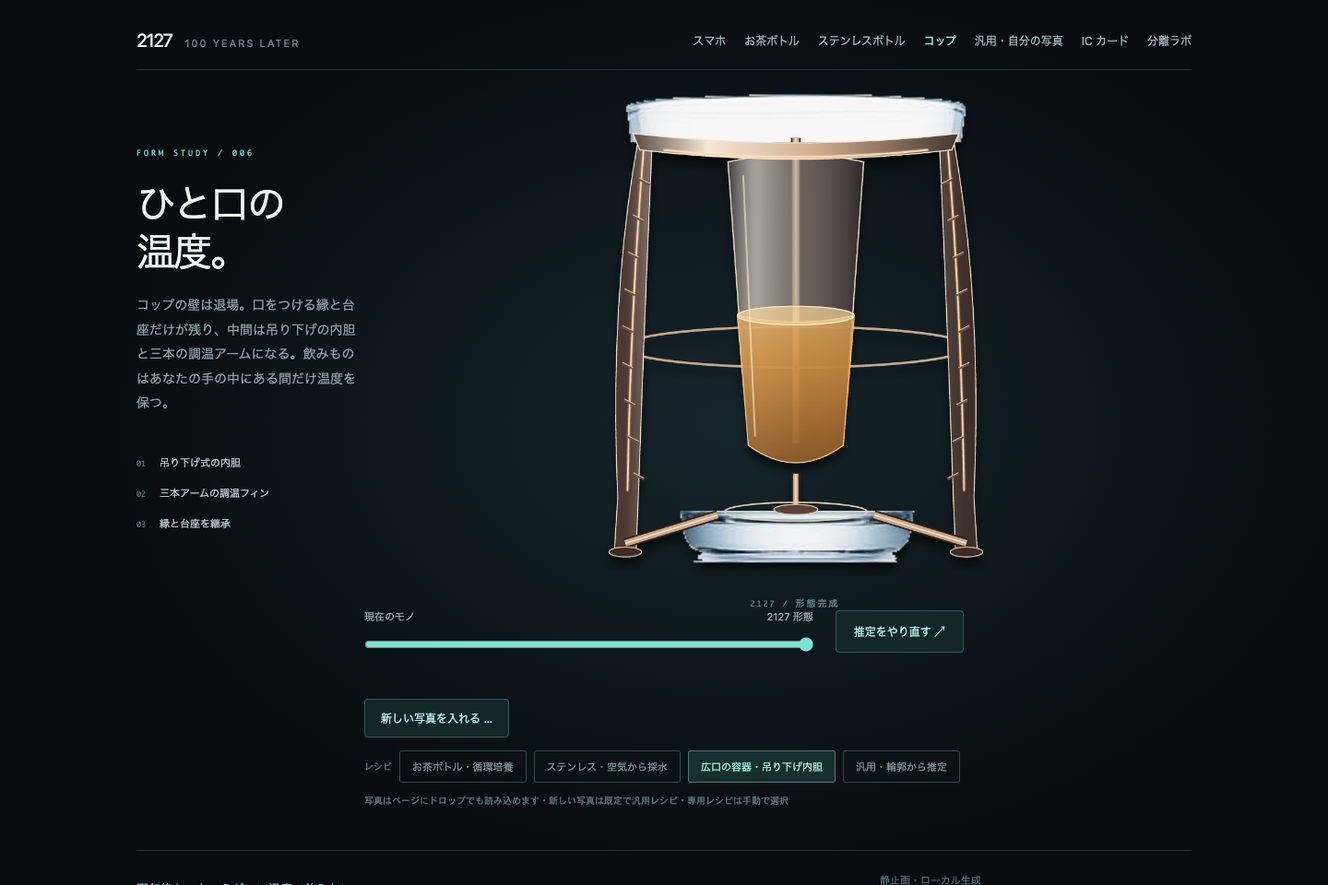
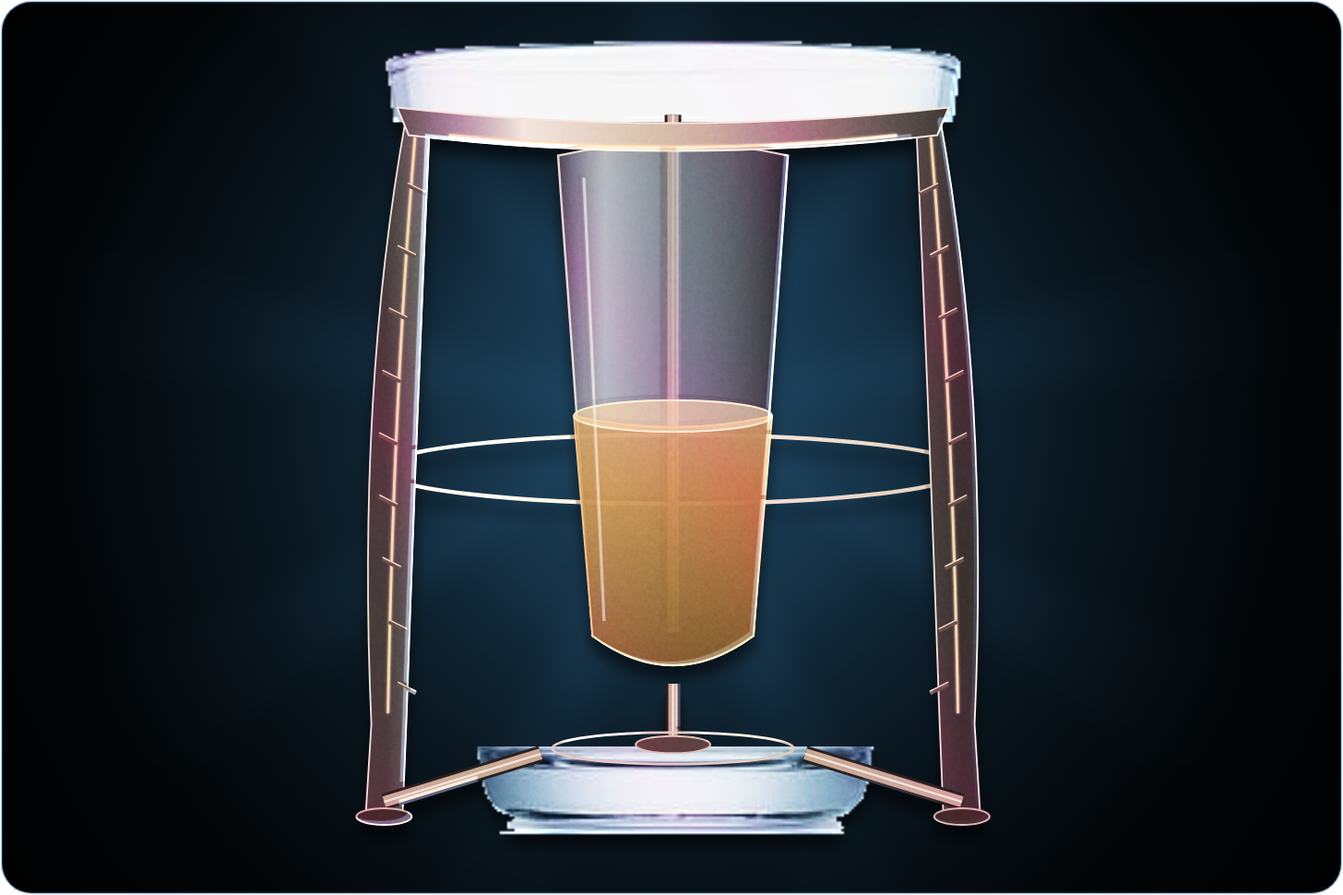
refactor(art): share the card stage between studies and phone.html
`phone.html` is the first thing demo.html shows, and it was the only page
without the backdrop, rim light, foil and grain — it did not read as part of
the same series. The stage layer only ever depended on one 1456×970 `future`
canvas, so it moves to a shared `stage.js` (stageBuild / stageBackdrop /
stageOverlay / stageEdge) instead of being copied into a second page.

studies.html output is byte-identical before and after; phone.html now rides
the same lamp. Its "the screen is really gone" self-check compares against the
backdrop instead of alpha 0, the way studies.html already did.

Also regenerates previews/*-future.png, which predated the 09-09 art pass.

Claude-Session: https://claude.ai/code/session_018SVE9dFeSjraHi3QfJLnTu

diff --git a/studies.html b/studies.html
@@ -23,7 +23,7 @@
 <span class="hint" id="loadhint">写真はページにドロップでも読み込めます・新しい写真は既定で汎用レシピ・専用レシピは手動で選択</span></div>
 <div class="controls" id="elevwrap" hidden><div class="compare"><div class="labels"><label for="elevation">カメラ：正面</label><span>斜め 45°</span></div><input id="elevation" aria-label="カメラ仰角" type="range" min="0" max="100" value="0"></div><span style="font:10px ui-monospace,monospace;color:#5f757e;white-space:nowrap">プロトタイプ・手続き幾何の再投影</span></div>
 <footer><p class="kept" id="kept"></p><p>静止画・ローカル生成<br>1 枚の写真によるキャリブレーション試験。回転追跡は含みません。</p></footer><pre id="checks" hidden></pre>
-</main><script src="segmentation.js"></script><script src="calibration.js"></script><script>
+</main><script src="segmentation.js"></script><script src="calibration.js"></script><script src="stage.js"></script><script>
 'use strict';
 const SRC={bottle:'assets/bottle-source.webp','bottle-b':'assets/bottle-b-source.jpeg',cup:'assets/segmentation/water.jpg',banana:'assets/segmentation/banana.jpeg',suica:'assets/suica-source.jpg'};
 const Q=new URLSearchParams(location.search),kind=!Q.has('lab')&&SRC[Q.get('object')]?Q.get('object'):'bottle',family=kind==='suica'?'suica':'bottle';
@@ -233,67 +233,8 @@ function renderFuture(elev=E0){
  if(family!=='bottle')cuff();else if(recipe==='generic')generic();else if(recipe==='cup')cup();else if(recipe==='flask')flask(elev);else bottle();
  // Staging is object-agnostic on purpose: every recipe is lit by the same lamp, so the pages read
  // as one series instead of five separate illustrations.
- stageAccent=place?place.accent:accentOf(source);paintStage();paintRim();paintHolo();paintGrain();
+ stageBuild(future,place?place.accent:accentOf(source));
 }
-// --- Card staging --------------------------------------------------------------------------
-// The evolved form used to be a cutout floating on flat black. Hand-painted card art is not
-// mostly detail, it is mostly *staging*: a lit backdrop, a rim light picking the silhouette off
-// it, and a foil sheen. All three are procedural and cost one paint per build, so they cost the
-// live demo nothing — which is why the polish budget goes here and not into more geometry.
-const stage=document.createElement('canvas'),rim=document.createElement('canvas'),holo=document.createElement('canvas'),grain=document.createElement('canvas');
-for(const cv of [stage,rim,holo,grain]){cv.width=1456;cv.height=970;}
-// Perfectly smooth gradients are the last thing that still says "vector". Real surfaces carry a
-// little noise, and a few percent of it is enough for the eye to stop reading the shading as a
-// fill. xorshift rather than Math.random: build() re-runs, and the same photo must land on the
-// same future every time.
-const GRAIN=(()=>{const cv=document.createElement('canvas');cv.width=cv.height=96;
- const g=cv.getContext('2d'),im=g.createImageData(96,96);let x=0x2127;
- for(let i=0;i<im.data.length;i+=4){x^=x<<13;x^=x>>>17;x^=x<<5;x>>>=0;
-  const v=114+x%29;im.data[i]=im.data[i+1]=im.data[i+2]=v;im.data[i+3]=255;}
- g.putImageData(im,0,0);return cv;})();
-let stageAccent={h:190,s:.55};
-const layer=cv=>{const c=cv.getContext('2d');c.setTransform(2,0,0,2,0,0);c.globalCompositeOperation='source-over';c.globalAlpha=1;c.clearRect(0,0,728,485);return c;};
-// Silhouette of the evolved form, flooded with one colour. Both the rim and the sheen are just
-// this shape masked differently, so neither can drift off the artwork it decorates.
-function silhouette(cv,paint){const c=layer(cv);c.drawImage(future,0,0,728,485);
- c.globalCompositeOperation='source-in';paint(c);c.globalCompositeOperation='source-over';return c;}
-function paintStage(){const c=layer(stage),H=stageAccent.h.toFixed(1),S=(Math.min(.62,stageAccent.s)*100).toFixed(0);
- const hsl=(l,a='')=>`hsl(${H} ${S}% ${l}%${a})`;
- c.fillStyle=hsl(5);c.fillRect(0,0,728,485);
- const key=c.createRadialGradient(364,222,8,364,222,340);
- key.addColorStop(0,hsl(27));key.addColorStop(.5,hsl(13));key.addColorStop(1,hsl(4));
- c.fillStyle=key;c.fillRect(0,0,728,485);
- // Nine rays, blurred hard and held at 7% alpha. Unblurred they read as a rising-sun poster —
- // drawn spokes competing with the subject — instead of light hanging in the air behind it.
- c.save();c.globalCompositeOperation='lighter';c.filter='blur(16px)';c.translate(364,222);
- for(let i=0;i<9;i++){c.rotate(Math.PI*2/9);
-  const r=c.createLinearGradient(0,0,0,-380);
-  r.addColorStop(0,hsl(46,' / 0'));r.addColorStop(.40,hsl(46,' / .07'));r.addColorStop(1,hsl(46,' / 0'));
-  c.fillStyle=r;c.beginPath();c.moveTo(0,0);c.lineTo(-42,-400);c.lineTo(42,-400);c.fill();}
- c.restore();
- const vig=c.createRadialGradient(364,222,120,364,240,430);
- vig.addColorStop(0,'#0000');vig.addColorStop(.62,'#00000066');vig.addColorStop(1,'#000000e6');
- c.fillStyle=vig;c.fillRect(0,0,728,485);
-}
-// The artwork sits in a card, not in a rectangle of page background: rounded plate, thin edge.
-const CARD=()=>{const p=new Path2D();p.roundRect(1,1,726,483,16);return p;};
-// A crescent of key light along the top-left edge: the silhouette minus itself nudged 2.6px, then
-// faded out toward the bottom-right. Without that second fade the crescent closes into a ring and
-// the subject reads as a sticker with a white outline rather than a lit object.
-function paintRim(){const c=silhouette(rim,c=>{c.fillStyle=`hsl(${stageAccent.h.toFixed(1)} 92% 80%)`;c.fillRect(0,0,728,485);});
- c.globalCompositeOperation='destination-out';c.drawImage(future,-2.6,-2.6,728,485);
- // Same axis as pearl, so the rim agrees with the highlight already painted on the frame.
- const g=c.createLinearGradient(150,90,590,410);
- g.addColorStop(0,'#0000');g.addColorStop(.5,'#0007');g.addColorStop(1,'#000');
- c.fillStyle=g;c.fillRect(0,0,728,485);}
-// Foil: bands alternating between the object's hue and its complement, so the sheen shifts colour
-// across the form the way a holographic card does under a tilt.
-// The hue swing follows how saturated the object is. On stainless a full complementary band reads
-// as chromatic aberration, not foil, so a near-neutral object gets a value-only shimmer instead.
-function paintHolo(){silhouette(holo,c=>{const h=stageAccent.h,off=170*stageAccent.s,g=c.createLinearGradient(110,440,650,30);
- for(let i=0;i<=10;i++)g.addColorStop(i/10,i%2?`hsl(${(h+off)%360} 80% 62% / .5)`:`hsl(${h} 85% 60% / .22)`);
- c.fillStyle=g;c.fillRect(0,0,728,485);});}
-function paintGrain(){silhouette(grain,c=>{c.fillStyle=c.createPattern(GRAIN,'repeat');c.fillRect(0,0,728,485);});}
 // Photo B is a vacuum steel flask: it has already solved the disposable bottle's problem, so it
 // gets its own evolution rather than the tea recipe. Its defining property is holding a state
 // against the environment; pushed a century on, it stops being filled and starts harvesting.
@@ -430,20 +371,6 @@ function cup(){
 // photographed, the shell between them goes, and what replaces it is a shrunken core inside an
 // exo-frame that traces and overshoots the original outline. This is the deliberate house form for
 // "not one of the authored classes" — it is not a claim that the object was recognised.
-// The accent light is measured from the object's own pixels, so a banana's future glows amber and
-// a steel flask's stays cold, instead of one house colour being painted over everything. A nearly
-// grey object keeps the neutral cyan rather than being given a hue that its own photo never had.
-function accentOf(canvas){
- const w=canvas.width,h=canvas.height,d=canvas.getContext('2d').getImageData(0,0,w,h).data;
- let r=0,g=0,b=0,n=0;
- for(let i=0;i<w*h;i+=7){const j=i*4;if(d[j+3]<200)continue;r+=d[j];g+=d[j+1];b+=d[j+2];n++;}
- if(!n)return{h:190,s:.55};
- r/=n*255;g/=n*255;b/=n*255;
- const mx=Math.max(r,g,b),mn=Math.min(r,g,b),l=(mx+mn)/2;let hue=190,sat=0;
- if(mx!==mn){const dd=mx-mn;sat=l>.5?dd/(2-mx-mn):dd/(mx+mn);
-  hue=60*(mx===r?(g-b)/dd+(g<b?6:0):mx===g?(b-r)/dd+2:(r-g)/dd+4);}
- return sat<.08?{h:190,s:.55}:{h:hue,s:Math.min(.8,.35+sat)};
-}
 function generic(){
  const c=future.getContext('2d');c.scale(2,2);
  const{k,dx,dy}=place,long=(place.base-place.top)>=place.hw*2?'y':'x';
@@ -583,19 +510,14 @@ function build(prepared=null){
 }
 let raf=0;
 function draw(mix=1){ctx.setTransform(2,0,0,2,0,0);ctx.clearRect(0,0,728,485);
- const card=CARD();ctx.save();ctx.clip(card);
- ctx.drawImage(stage,0,0,728,485);
+ ctx.save();ctx.clip(CARD());
+ stageBackdrop(ctx);
  ctx.save();ctx.shadowColor='#0009';ctx.shadowBlur=15;ctx.shadowOffsetY=14;
  ctx.globalAlpha=1-mix;ctx.drawImage(source,0,0,728,485);ctx.globalAlpha=mix;ctx.drawImage(future,0,0,728,485);ctx.restore();
  // Rim and foil belong to the evolved form, so they arrive with it as the slider is dragged.
- ctx.save();ctx.globalCompositeOperation='lighter';
- ctx.globalAlpha=mix*.6;ctx.drawImage(rim,0,0,728,485);
- // Overlay, not lighter: foil shifts hue across the form without flattening its darks, which is
- // what a straight additive pass did — it washed the whole subject to one pale value.
- ctx.globalCompositeOperation='overlay';ctx.globalAlpha=mix*(.25+.6*stageAccent.s);ctx.drawImage(holo,0,0,728,485);
- ctx.globalAlpha=mix*.45;ctx.drawImage(grain,0,0,728,485);ctx.restore();
+ stageOverlay(ctx,mix);
  ctx.restore();
- shape(ctx,card,null,`hsl(${stageAccent.h.toFixed(1)} 45% 46% / .35)`,1.2);}
+ stageEdge(ctx);}
 function evolve(){cancelAnimationFrame(raf);slider.value=100;phase.textContent='形態を再構成中';const start=performance.now();function tick(now){const p=Math.min(1,(now-start)/1800);draw(p*p*(3-2*p));if(p<1)raf=requestAnimationFrame(tick);else{raf=0;phase.textContent='2127 / 形態完成';}}if(matchMedia('(prefers-reduced-motion: reduce)').matches){draw();phase.textContent='2127 / 形態完成';}else raf=requestAnimationFrame(tick);}
 if(kind==='bottle-b'){const wrap=document.getElementById('elevwrap'),el=document.getElementById('elevation');
  wrap.hidden=false;

diff --git a/stage.js b/stage.js
@@ -1,0 +1,88 @@
+'use strict';
+// 舞台層：五個 studies 入口同 phone.html 共用嘅卡牌式打光。
+// 只依賴一張 1456×970 嘅 `future` 畫布 —— 唔識得任何 renderer，所以加新 renderer 唔使理呢層。
+// 用法：stageBuild(future, accentOf(source)) 之後，喺 draw() 入面
+//   stageBackdrop(ctx) → 畫主體 → stageOverlay(ctx, mix) → stageEdge(ctx)。
+// The accent light is measured from the object's own pixels, so a banana's future glows amber and
+// a steel flask's stays cold, instead of one house colour being painted over everything. A nearly
+// grey object keeps the neutral cyan rather than being given a hue that its own photo never had.
+function accentOf(canvas){
+ const w=canvas.width,h=canvas.height,d=canvas.getContext('2d').getImageData(0,0,w,h).data;
+ let r=0,g=0,b=0,n=0;
+ for(let i=0;i<w*h;i+=7){const j=i*4;if(d[j+3]<200)continue;r+=d[j];g+=d[j+1];b+=d[j+2];n++;}
+ if(!n)return{h:190,s:.55};
+ r/=n*255;g/=n*255;b/=n*255;
+ const mx=Math.max(r,g,b),mn=Math.min(r,g,b),l=(mx+mn)/2;let hue=190,sat=0;
+ if(mx!==mn){const dd=mx-mn;sat=l>.5?dd/(2-mx-mn):dd/(mx+mn);
+  hue=60*(mx===r?(g-b)/dd+(g<b?6:0):mx===g?(b-r)/dd+2:(r-g)/dd+4);}
+ return sat<.08?{h:190,s:.55}:{h:hue,s:Math.min(.8,.35+sat)};
+}
+// --- Card staging --------------------------------------------------------------------------
+// The evolved form used to be a cutout floating on flat black. Hand-painted card art is not
+// mostly detail, it is mostly *staging*: a lit backdrop, a rim light picking the silhouette off
+// it, and a foil sheen. All three are procedural and cost one paint per build, so they cost the
+// live demo nothing — which is why the polish budget goes here and not into more geometry.
+const stage=document.createElement('canvas'),rim=document.createElement('canvas'),holo=document.createElement('canvas'),grain=document.createElement('canvas');
+for(const cv of [stage,rim,holo,grain]){cv.width=1456;cv.height=970;}
+// Perfectly smooth gradients are the last thing that still says "vector". Real surfaces carry a
+// little noise, and a few percent of it is enough for the eye to stop reading the shading as a
+// fill. xorshift rather than Math.random: build() re-runs, and the same photo must land on the
+// same future every time.
+const GRAIN=(()=>{const cv=document.createElement('canvas');cv.width=cv.height=96;
+ const g=cv.getContext('2d'),im=g.createImageData(96,96);let x=0x2127;
+ for(let i=0;i<im.data.length;i+=4){x^=x<<13;x^=x>>>17;x^=x<<5;x>>>=0;
+  const v=114+x%29;im.data[i]=im.data[i+1]=im.data[i+2]=v;im.data[i+3]=255;}
+ g.putImageData(im,0,0);return cv;})();
+let stageAccent={h:190,s:.55},stageFuture=null;
+const layer=cv=>{const c=cv.getContext('2d');c.setTransform(2,0,0,2,0,0);c.globalCompositeOperation='source-over';c.globalAlpha=1;c.clearRect(0,0,728,485);return c;};
+// Silhouette of the evolved form, flooded with one colour. Both the rim and the sheen are just
+// this shape masked differently, so neither can drift off the artwork it decorates.
+function silhouette(cv,paint){const c=layer(cv);c.drawImage(stageFuture,0,0,728,485);
+ c.globalCompositeOperation='source-in';paint(c);c.globalCompositeOperation='source-over';return c;}
+function paintStage(){const c=layer(stage),H=stageAccent.h.toFixed(1),S=(Math.min(.62,stageAccent.s)*100).toFixed(0);
+ const hsl=(l,a='')=>`hsl(${H} ${S}% ${l}%${a})`;
+ c.fillStyle=hsl(5);c.fillRect(0,0,728,485);
+ const key=c.createRadialGradient(364,222,8,364,222,340);
+ key.addColorStop(0,hsl(27));key.addColorStop(.5,hsl(13));key.addColorStop(1,hsl(4));
+ c.fillStyle=key;c.fillRect(0,0,728,485);
+ // Nine rays, blurred hard and held at 7% alpha. Unblurred they read as a rising-sun poster —
+ // drawn spokes competing with the subject — instead of light hanging in the air behind it.
+ c.save();c.globalCompositeOperation='lighter';c.filter='blur(16px)';c.translate(364,222);
+ for(let i=0;i<9;i++){c.rotate(Math.PI*2/9);
+  const r=c.createLinearGradient(0,0,0,-380);
+  r.addColorStop(0,hsl(46,' / 0'));r.addColorStop(.40,hsl(46,' / .07'));r.addColorStop(1,hsl(46,' / 0'));
+  c.fillStyle=r;c.beginPath();c.moveTo(0,0);c.lineTo(-42,-400);c.lineTo(42,-400);c.fill();}
+ c.restore();
+ const vig=c.createRadialGradient(364,222,120,364,240,430);
+ vig.addColorStop(0,'#0000');vig.addColorStop(.62,'#00000066');vig.addColorStop(1,'#000000e6');
+ c.fillStyle=vig;c.fillRect(0,0,728,485);
+}
+// The artwork sits in a card, not in a rectangle of page background: rounded plate, thin edge.
+const CARD=()=>{const p=new Path2D();p.roundRect(1,1,726,483,16);return p;};
+// A crescent of key light along the top-left edge: the silhouette minus itself nudged 2.6px, then
+// faded out toward the bottom-right. Without that second fade the crescent closes into a ring and
+// the subject reads as a sticker with a white outline rather than a lit object.
+function paintRim(){const c=silhouette(rim,c=>{c.fillStyle=`hsl(${stageAccent.h.toFixed(1)} 92% 80%)`;c.fillRect(0,0,728,485);});
+ c.globalCompositeOperation='destination-out';c.drawImage(stageFuture,-2.6,-2.6,728,485);
+ // Same axis as pearl, so the rim agrees with the highlight already painted on the frame.
+ const g=c.createLinearGradient(150,90,590,410);
+ g.addColorStop(0,'#0000');g.addColorStop(.5,'#0007');g.addColorStop(1,'#000');
+ c.fillStyle=g;c.fillRect(0,0,728,485);}
+// Foil: bands alternating between the object's hue and its complement, so the sheen shifts colour
+// across the form the way a holographic card does under a tilt.
+// The hue swing follows how saturated the object is. On stainless a full complementary band reads
+// as chromatic aberration, not foil, so a near-neutral object gets a value-only shimmer instead.
+function paintHolo(){silhouette(holo,c=>{const h=stageAccent.h,off=170*stageAccent.s,g=c.createLinearGradient(110,440,650,30);
+ for(let i=0;i<=10;i++)g.addColorStop(i/10,i%2?`hsl(${(h+off)%360} 80% 62% / .5)`:`hsl(${h} 85% 60% / .22)`);
+ c.fillStyle=g;c.fillRect(0,0,728,485);});}
+function paintGrain(){silhouette(grain,c=>{c.fillStyle=c.createPattern(GRAIN,'repeat');c.fillRect(0,0,728,485);});}
+// 對外三步：背景、疊層、卡邊。mix 同主體嘅淡入一致，所以輪廓光同燙金係跟住未來形態一齊到。
+function stageBuild(target,accent){stageFuture=target;stageAccent=accent;paintStage();paintRim();paintHolo();paintGrain();}
+function stageBackdrop(c){c.drawImage(stage,0,0,728,485);}
+function stageOverlay(c,mix){c.save();c.globalCompositeOperation='lighter';
+ c.globalAlpha=mix*.6;c.drawImage(rim,0,0,728,485);
+ // Overlay, not lighter: foil shifts hue across the form without flattening its darks, which is
+ // what a straight additive pass did — it washed the whole subject to one pale value.
+ c.globalCompositeOperation='overlay';c.globalAlpha=mix*(.25+.6*stageAccent.s);c.drawImage(holo,0,0,728,485);
+ c.globalAlpha=mix*.45;c.drawImage(grain,0,0,728,485);c.restore();}
+function stageEdge(c){c.strokeStyle=`hsl(${stageAccent.h.toFixed(1)} 45% 46% / .35)`;c.lineWidth=1.2;c.stroke(CARD());}

diff --git a/phone.html b/phone.html
@@ -14,7 +14,7 @@
 <figure><canvas id="view" width="1456" height="970" role="img" aria-label="画面と上半分の筐体が消え、三枚のセラミック製センシングウィングをつなぐ光導スパインへ。下端は元のグリップとボタンを残す"></canvas><figcaption id="phase" aria-live="polite">形態推定の準備中</figcaption></figure></section>
 <div class="controls"><div class="compare"><div class="labels"><label for="evolution">現在のスマホ</label><span>2127 形態</span></div><input id="evolution" aria-label="現在のスマホと 2127 形態の比較" type="range" min="0" max="100" value="100" disabled></div><button id="replay" disabled>推定をやり直す ↗</button></div>
 <footer><p class="kept">百年後も、世界は手のなかにある。</p><p>静止画・ローカル生成<br>1 枚の写真によるキャリブレーション試験。回転追跡は含みません。</p></footer><pre id="checks" hidden></pre>
-</main><script src="segmentation.js"></script><script src="calibration.js"></script><script>
+</main><script src="segmentation.js"></script><script src="calibration.js"></script><script src="stage.js"></script><script>
 'use strict';
 const canvas=document.getElementById('view'), ctx=canvas.getContext('2d');
 const slider=document.getElementById('evolution'), replay=document.getElementById('replay'), phase=document.getElementById('phase');
@@ -76,16 +76,25 @@ function makeFuture(){
  trace(c,[[.48,-.045,33],[.536,-.045,33]],'#e6acd6',1.4,4);
  // Original physical home button remains legible in the retained grip.
  c.save();c.strokeStyle='#599c9a';c.lineWidth=.8;c.beginPath();c.ellipse(184,355,32,8.7,.24,0,Math.PI*2);c.stroke();c.restore();
+ // Same lamp as the five studies entries: backdrop, rim light, foil and grain are all derived
+ // from this silhouette, so this page finally reads as part of the same series.
+ stageBuild(future,accentOf(original));
 }
 let raf=0, started=0;
 function draw(amount=1,progress=1){
  ctx.setTransform(2,0,0,2,0,0);ctx.clearRect(0,0,728,485);
  // Crossfade the whole source away, including its alpha: removed structure must reveal the background.
  const mix=amount*(progress*progress*(3-2*progress));
+ ctx.save();ctx.clip(CARD());
+ stageBackdrop(ctx);
+ // The subject is drawn at .84, so the rim and foil have to ride the same transform or they would
+ // sit beside the form they belong to.
  ctx.save();ctx.translate(364,242);ctx.scale(.84,.84);ctx.translate(-364,-242);
- ctx.shadowColor='#0009';ctx.shadowBlur=18;ctx.shadowOffsetY=15;
+ ctx.save();ctx.shadowColor='#0009';ctx.shadowBlur=18;ctx.shadowOffsetY=15;
  ctx.globalAlpha=1-mix;ctx.drawImage(original,0,0,728,485);
  ctx.globalAlpha=mix;ctx.drawImage(future,0,0,728,485);ctx.restore();
+ stageOverlay(ctx,mix);ctx.restore();
+ ctx.restore();stageEdge(ctx);
 }
 function evolve(){cancelAnimationFrame(raf);slider.value=100;started=performance.now();phase.textContent='筐体を展開中';
  const tick=now=>{const p=Math.min(1,(now-started)/1800);draw(1,p);if(p<1)raf=requestAnimationFrame(tick);else{raf=0;phase.textContent='2127 / 形態完成';}};
@@ -109,7 +118,11 @@ function selfTest(){
  const [hx,hy]=at(.8,.7),hole=(Math.round(hy*2)*1456+Math.round(hx*2))*4+3;
  check('former screen has true transparent negative space',a[hole]>200&&b[hole]===0);
  draw(1);const visibleHole=(Math.round((242+(hy-242)*.84)*2)*1456+Math.round((364+(hx-364)*.84)*2))*4+3;
- check('final composite does not retain removed screen',ctx.getImageData(0,0,1456,970).data[visibleHole]<15);
+ // There is a lit backdrop behind the object now, so "the screen is gone" cannot be alpha 0 any
+ // more: the removed area must show untouched backdrop instead (same test as studies.html).
+ const comp=ctx.getImageData(0,0,1456,970).data,st=stage.getContext('2d').getImageData(0,0,1456,970).data;
+ check('final composite shows backdrop where the screen was',
+  Math.abs(comp[visibleHole-3]-st[visibleHole-3])+Math.abs(comp[visibleHole-2]-st[visibleHole-2])+Math.abs(comp[visibleHole-1]-st[visibleHole-1])<30);
  const out=document.getElementById('checks');out.hidden=false;out.textContent=rows.join('\n');return rows;
 }
 function loadDefault(){photo=new Image();const current=photo;

diff --git a/memory-bank/20-status.md b/memory-bank/20-status.md
@@ -41,13 +41,13 @@
 - 材質工具：部件範圍漸層（凸／凹明暗軌）、疊描邊管、接觸陰影、管座、螺絲、顆粒。
   茶瓶 pod 同保溫樽鰭片已重畫；水杯本身寫法就啱，只補全域顆粒；
   手機同交通卡幾何未動。
+- 舞台層已抽做共用檔 `stage.js`（`stageBuild` / `stageBackdrop` / `stageOverlay` / `stageEdge`），
+  `studies.html` 同 `phone.html` 一齊用；`studies.html` 嘅輸出前後 byte 相同，純重構。
 - `renderFuture()` 實測 5ms，即時生成負擔不變。
 - 手法、取捨同陷阱見 `30-decisions.md` 同 `40-gotchas.md`；管線圖見 `10-architecture.md`。
-- ⚠ **`phone.html` 冇跟上。** 佢有自己一個 `draw()`，唔經 `studies.html` 嘅管線，
-  所以冇舞台、冇輪廓光、冇燙金、冇顆粒 —— 同五個 studies 入口而家**唔同一家人**。
-  使用者當時話手機畫面 OK 所以冇動；要統一就要將管線抽出共用檔，或者喺 `phone.html` 複製一份。
-- ⚠ `previews/*-future.png` 係 2026-09-08 嘅手動快照，**早過呢次美術改動**，
-  已經唔代表現時畫面。要更新就開對應頁面撳「今の画面を保存」。
+- `phone.html`（2026-09-10）已經接上同一個舞台層。佢仍然有自己一個 `draw()`（主體整體縮 .84），
+  但四層打光同卡面同五個 studies 入口一致 —— 而家係同一家人。幾何本身未動。
+- `previews/*-future.png` 已於 2026-09-10 用現行畫面重新產生（1456×970，同「今の画面を保存」同一路徑）。
   `previews/demo-*.png` 同 `previews/input-tests/` 由 `tests/browser.cjs` 重跑產生。
 
 ### 校準
@@ -59,6 +59,7 @@
 ### 驗證
 
 - 139 項頁內自我檢查：legacy 67、Lab 12、茶瓶 11、保溫樽 13、闊身容器 10、通用 10、交通卡 7、手機 9。
+  手機嗰 9 項有一項改咗寫法：合成底下有舞台，所以「螢幕真係冇咗」由 alpha 0 改成同背景比對（同 studies 一致）。
 - `tests/browser.cjs` 覆蓋真實 UI 操作、輸出檔案、快速換相、失敗恢復、配方切換、校準、baseline restoration、三種卡片 metadata／theme、750×1050 PNG、63×88mm print、deterministic reopen、reduced-motion 同 390px 版面。
 - 最新證據及限制見 [`../previews/input-tests/README.md`](../previews/input-tests/README.md)，重跑方法見 [`../tests/README.md`](../tests/README.md)。
 

diff --git a/AGENTS.md b/AGENTS.md
@@ -37,8 +37,9 @@ repo 文檔同程式碼註解維持中文；`index.html?test=1` 嗰 67 條檢查
 
 ## 畫面美術
 
-`studies.html` 有一層卡牌式舞台（背光／輪廓光／燙金／顆粒），由 `future` 剪影自動生成 ——
-**加新 renderer 唔使理呢層**。物件本身用材質工具畫：部件範圍漸層、疊描邊管、接觸陰影、
+卡牌式舞台（背光／輪廓光／燙金／顆粒）喺共用檔 `stage.js`，由 `future` 剪影自動生成 ——
+**加新 renderer 唔使理呢層**。`studies.html` 五個入口同 `phone.html` 共用同一盞燈。
+自己寫 `draw()` 嘅頁要記住：主體同 `stageOverlay()` 必須喺同一個 transform 之內（見 gotchas）。物件本身用材質工具畫：部件範圍漸層、疊描邊管、接觸陰影、
 管座、螺絲。管線圖見 `memory-bank/10-architecture.md`。
 
 **動手改美術之前一定要睇 `memory-bank/40-gotchas.md` 嘅漸層 clamp 條目。**
@@ -82,8 +83,9 @@ repo 文檔同程式碼註解維持中文；`index.html?test=1` 嗰 67 條檢查
 | 檔 | 係乜 |
 |---|---|
 | `studies.html` | 現行主頁：各配方 renderer、畫面管線、材質工具、Lab（~920 行） |
-| `phone.html` | 手機四角校準頁。**有自己嘅 `draw()`，未跟 studies 管線** |
+| `phone.html` | 手機四角校準頁。**有自己嘅 `draw()`**，但美術已共用 `stage.js` |
 | `demo.html` | 組員展示入口 |
+| `stage.js` | 共用舞台層：背光／輪廓光／燙金／顆粒／卡面。studies + phone 一齊用 |
 | `segmentation.js` | 共用去背、遮罩處理、幾何錨點 |
 | `calibration.js` / `calibration.css` | 共用四角校準、透視映射 |
 | `index.html` | legacy 旋轉／攝影機原型，單檔，~1540 行 |

diff --git a/memory-bank/40-gotchas.md b/memory-bank/40-gotchas.md
@@ -188,3 +188,17 @@ shape(c, podB, pearl);   // 全部喺 ramp 之後 → clamp 成最後一個 stop
 
 **同類已知案例**：`cup()` 冇中招，因為佢一開始就係 `grad(c, cx-hw, 0, cx+hw, 0, …)`，
 跟住部件半寬開。呢個先係啱嘅寫法。
+
+### 舞台層同主體唔喺同一個 transform
+
+**症狀**：輪廓光／燙金／顆粒睇落離開咗物件，或者大細唔啱。
+
+**成因**：`rim`／`holo`／`grain` 係由 `future` 剪影生成，坐標同 `future` 一樣。
+邊個 transform 之下畫佢哋，佢哋就跟邊個。`phone.html` 嘅 `draw()` 將主體縮 .84，
+如果 `stageOverlay(ctx, mix)` 喺 `restore()` 之後先畫，就會用返原尺寸，即刻錯位。
+
+**修法**：主體同 `stageOverlay()` 一定要喺同一個 `save()/restore()` 之內。
+`stageBackdrop()` 相反 —— 佢係背景，要喺 transform 之外、卡面 clip 之內。
+
+**一眼認出**：光暈同物件同形但唔同大細／偏位，而唔係亂咁一忽。
+

diff --git a/previews/input-tests/README.md b/previews/input-tests/README.md
@@ -33,3 +33,11 @@ Each rejection clears the displayed canvases and disables evolution/replay. Same
 Evidence: `results.json`, each `*-mask.png` (transparent pixels outside retained mask), and each `*-page.png` (actual rejected UI). No manual ground-truth masks, so no numerical segmentation accuracy claim.
 
 Next: separate generic segmentation from bottle-specific row filling and shadow trimming before supporting concave or open objects; do not merely relax the aspect gate. Each new object also needs an appropriate evolution recipe.
+
+## 2026-09-10 · 舞台層抽做 `stage.js`
+
+`studies.html` 同 `phone.html` 改用共用舞台層之後全套重跑：`tests/browser.cjs` 全綠、
+`errors: []`，`calibrated-phone.png` 同 `bridge-*.png` 已重新產生。
+`studies.html?object=bottle-b` 嘅 `#view` 輸出同重構之前 byte 相同。
+`phone.html?test=1` 9/9（其中一項改成同背景比對，因為合成底下有舞台）。
+

diff --git a/README.md b/README.md
@@ -62,5 +62,5 @@ http://127.0.0.1:8127/phone.html?test=1
 - 手機同卡片需要人工確認四角；現有檢查未證明任意實物都能自動校準。
 - 透明、鏡面、亮色物件仍可能去背失敗，應轉入 Lab 手動修正。
 - 後端、Gemini、相機擷取、第二視角、實體印刷及展場連續運作仍未實作或未驗證。
-- `phone.html` 有自己一套繪圖流程，未跟 `studies.html` 嘅畫面管線；兩者外觀唔一致。
-- `previews/*-future.png` 係手動快照，可能落後於現時畫面；由測試產生嘅係 `previews/input-tests/` 同 `previews/demo-*.png`。
+- `phone.html` 仍然有自己一套 `draw()`（主體整體縮 .84），但畫面美術已同 `studies.html` 共用 `stage.js`。
+- `previews/*-future.png` 係手動快照（最後更新 2026-09-10）；由測試產生嘅係 `previews/input-tests/` 同 `previews/demo-*.png`。
